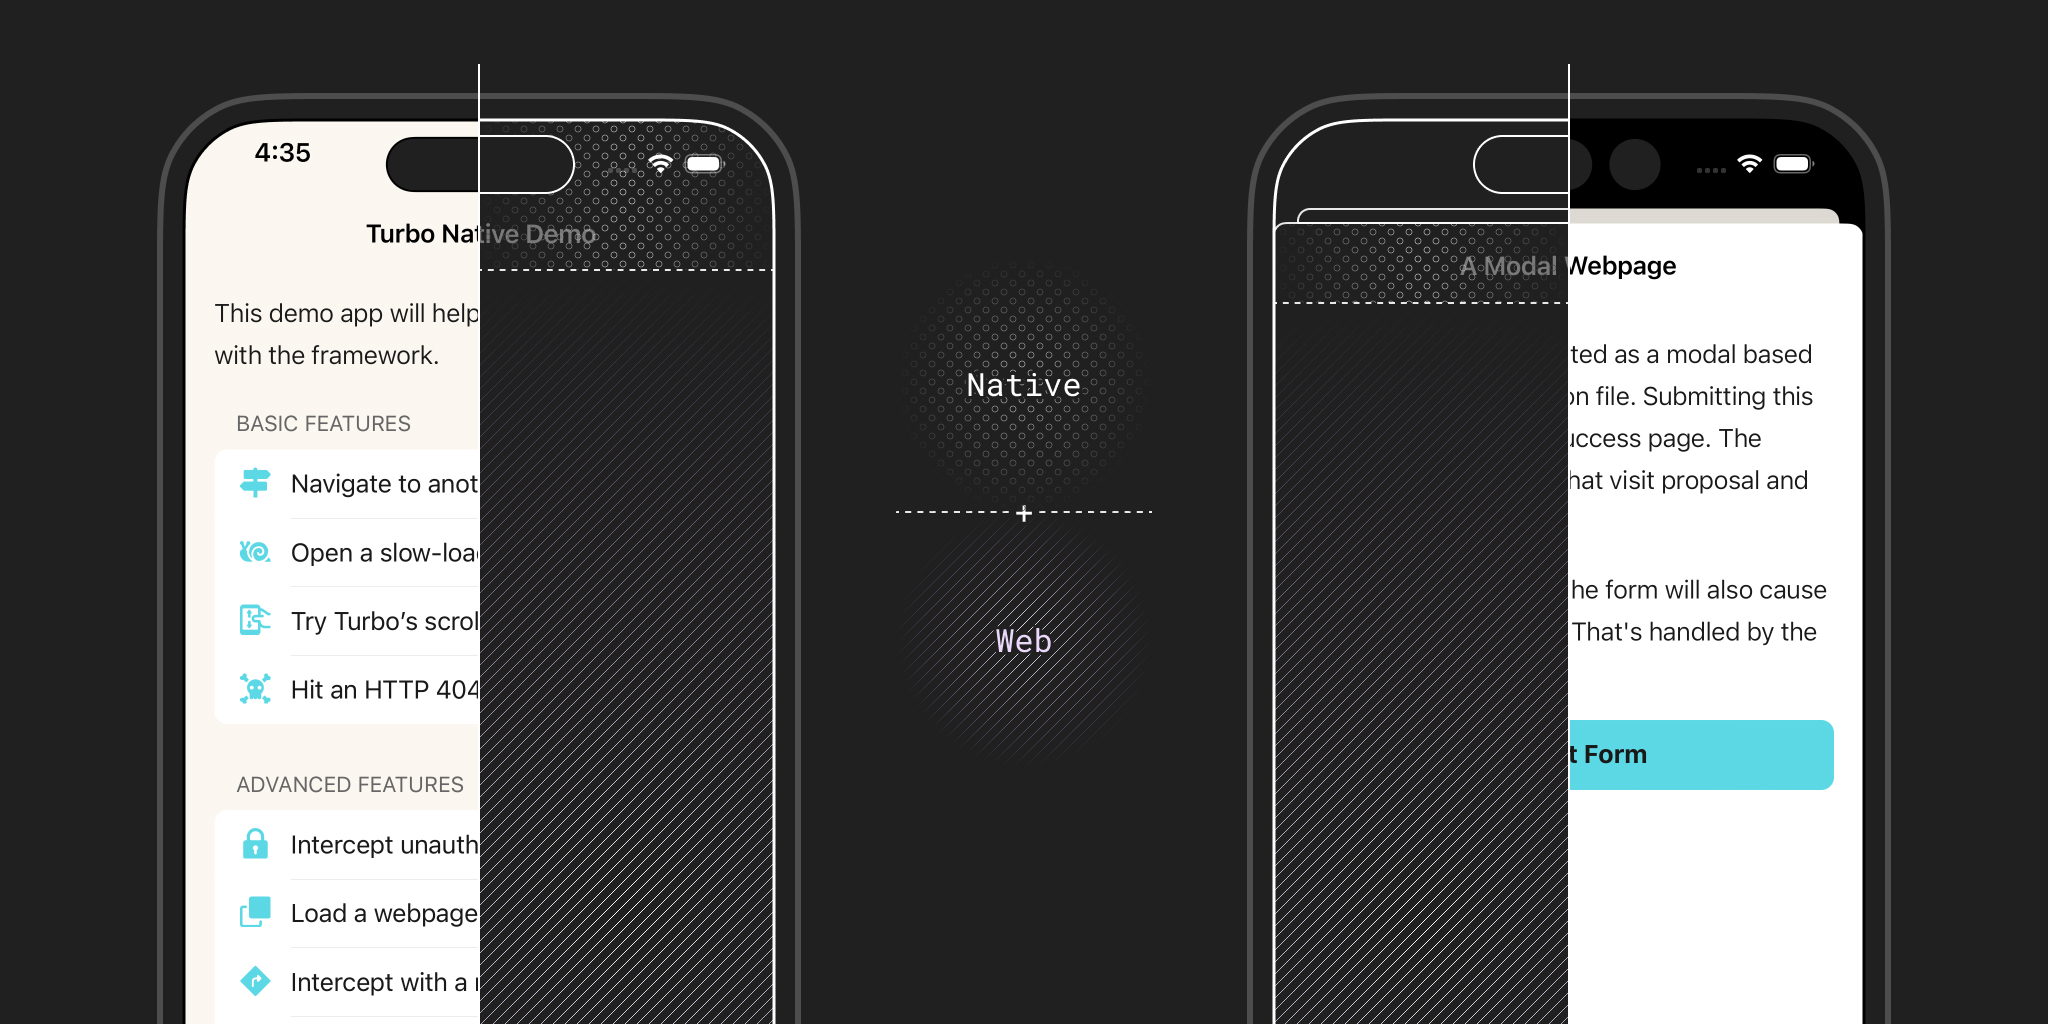
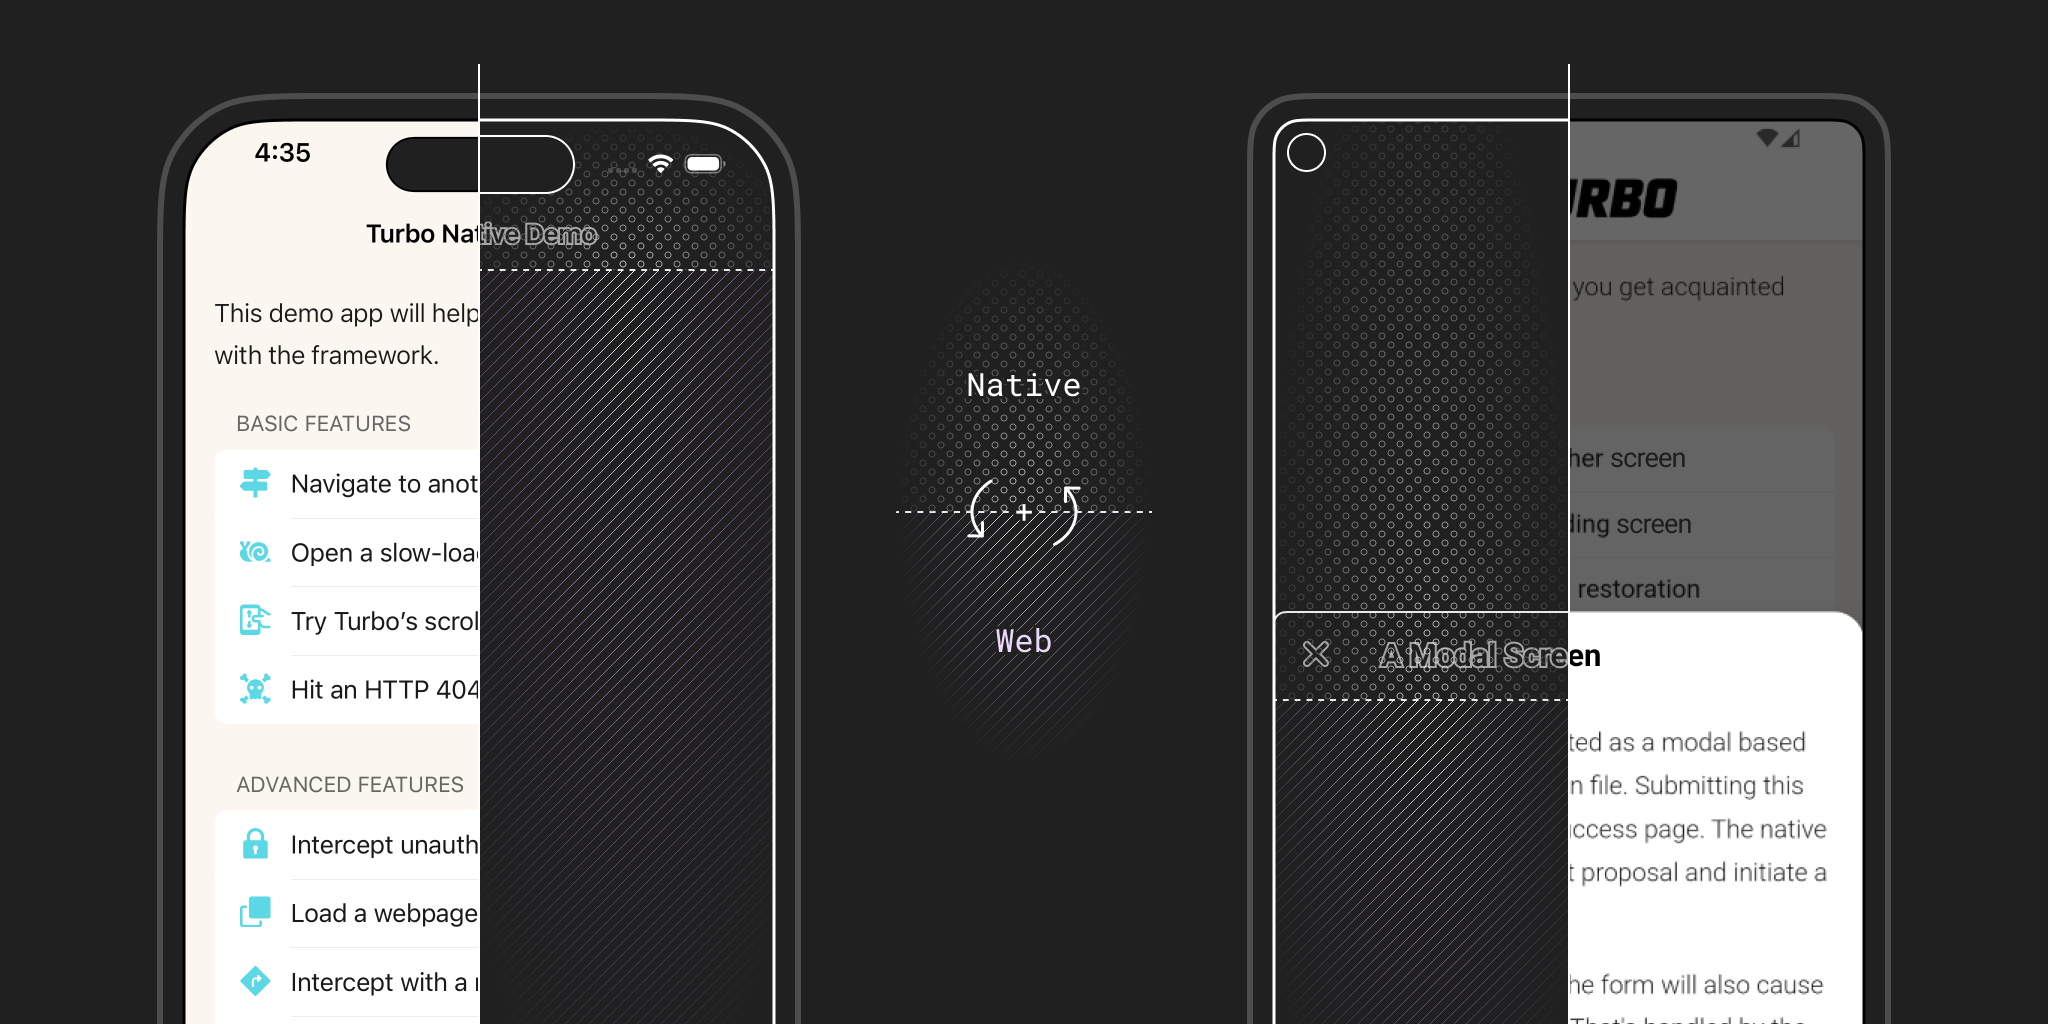
Update native vs web image

diff --git a/_source/overview/01_how_it_works.md b/_source/overview/01_how_it_works.md
@@ -11,7 +11,7 @@ Hotwire Native makes your mobile web content feel at home on Android and iOS by 
 Under the hood, it’s a glorified web browser. Hotwire Native displays whatever HTML and CSS your server renders. Here's an example from the demo iOS app. Only the blue content is native, everything else is from the web.
 
 <figure>
-  <img src="/assets/native-vs-web.jpg" width="1200" alt="Native vs. web">
+  <img src="/assets/native-vs-web-ios.jpg" width="1200" alt="Native vs. web">
   Demo Hotwire Native app on iOS
 </figure>
 
